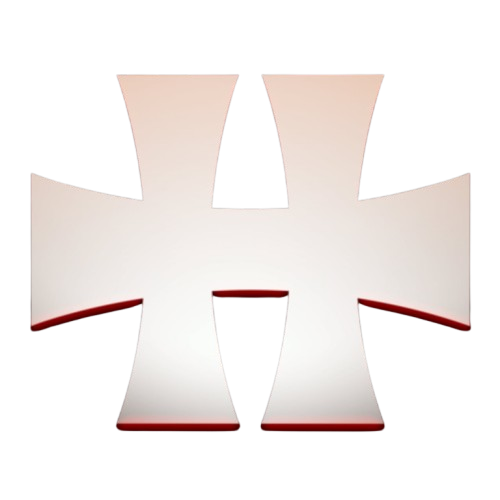
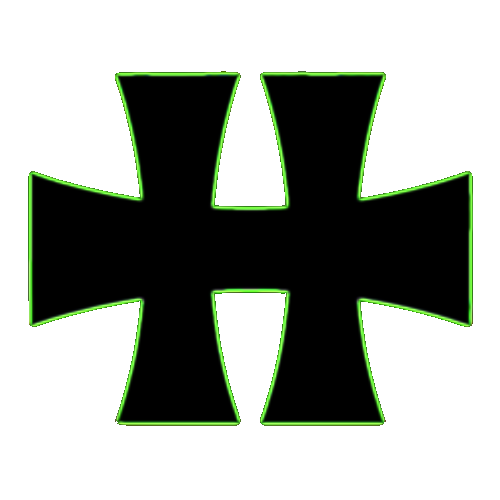
Clean

diff --git a/src/MatrixScreensaver.Wpf/MainWindow.xaml b/src/MatrixScreensaver.Wpf/MainWindow.xaml
@@ -10,18 +10,20 @@
         <Grid x:Name="BackLayersContainer" Panel.ZIndex="0" />
 
         <Border x:Name="BackgroundStage" Panel.ZIndex="2"
-                
                 HorizontalAlignment="Center"
                 VerticalAlignment="Center"
                 Width="Auto"
                 Height="Auto"
                 Margin="120"
-                Background="#06000000"
+                Background="#00000000"
                 BorderBrush="#22000000"
                 BorderThickness="1"
                 CornerRadius="6"
                 IsHitTestVisible="False">
-            <Image x:Name="BackgroundImage" Stretch="Uniform" Opacity="1" />
+            <Grid>
+                <Image x:Name="BackgroundImage" Stretch="Uniform" Opacity="1" />
+                <Rectangle x:Name="ImageTintOverlay" IsHitTestVisible="False" />
+            </Grid>
         </Border>
 
         <Rectangle x:Name="CrtOverlay" Panel.ZIndex="4" IsHitTestVisible="False" Opacity="0.00">
@@ -64,6 +66,8 @@
         </Rectangle>
     </Grid>
 </Window>
+
+
 
 
 

diff --git a/src/MatrixScreensaver.Wpf/MainWindow.xaml.cs b/src/MatrixScreensaver.Wpf/MainWindow.xaml.cs
@@ -36,6 +36,7 @@ public partial class MainWindow : Window
         BackgroundImage.Stretch = Stretch.Uniform;
         BackgroundStage.Opacity = Math.Clamp(options.Background.Opacity + 0.05, 0.0, 1.0);
         BackgroundStage.RenderTransform = Transform.Identity;
+        ConfigureImageTintOverlay(options);
 
         UpdateBackgroundPlaneLayout();
         SizeChanged += (_, _) => UpdateBackgroundPlaneLayout();
@@ -54,6 +55,30 @@ public partial class MainWindow : Window
         };
     }
 
+    private void ConfigureImageTintOverlay(MatrixScreensaverOptions options)
+    {
+        var baseColor = ParseTintColor(options.Matrix.GlyphColor, System.Windows.Media.Color.FromRgb(0, 255, 102));
+        var tintStrength = Math.Clamp(0.015 + options.Background.Opacity * 0.015, 0.015, 0.035);
+        var alpha = (byte)Math.Clamp((int)Math.Round(255.0 * tintStrength), 0, 255);
+        var tintColor = System.Windows.Media.Color.FromArgb(alpha, baseColor.R, baseColor.G, baseColor.B);
+
+        ImageTintOverlay.Fill = new SolidColorBrush(tintColor);
+        ImageTintOverlay.Opacity = 1.0;
+        ImageTintOverlay.Visibility = Visibility.Visible;
+    }
+
+    private static System.Windows.Media.Color ParseTintColor(string input, System.Windows.Media.Color fallback)
+    {
+        try
+        {
+            var converted = System.Windows.Media.ColorConverter.ConvertFromString(input);
+            return converted is System.Windows.Media.Color c ? c : fallback;
+        }
+        catch
+        {
+            return fallback;
+        }
+    }
     private void InitializeDepthLayers()
     {
         _rainLayers.Clear();
@@ -147,11 +172,11 @@ public partial class MainWindow : Window
 
         var backOpacityBoost = isWideLandscape ? 1.40 : (isLandscape ? 1.28 : 1.12);
         var backSpeedBoost = isWideLandscape ? 1.52 : (isLandscape ? 1.36 : 1.14);
-        var backDensityBoost = isWideLandscape ? 1.75 : (isLandscape ? 1.50 : 1.24);
+        var backDensityBoost = isWideLandscape ? 1.75 : (isLandscape ? 1.50 : 1.48);
 
         var frontOpacityBoost = isWideLandscape ? 0.72 : (isLandscape ? 0.78 : 0.88);
         var frontSpeedBoost = isWideLandscape ? 0.92 : (isLandscape ? 0.96 : 1.00);
-        var frontDensityBoost = isWideLandscape ? 0.45 : (isLandscape ? 0.52 : 0.75);
+        var frontDensityBoost = isWideLandscape ? 0.45 : (isLandscape ? 0.52 : 0.68);
 
         var effectiveOpacity = isBackLayer
             ? Math.Clamp(layerConfig.Opacity * backOpacityBoost, 0.62, 1.00)
@@ -217,6 +242,12 @@ public partial class MainWindow : Window
         bitmap.Freeze();
 
         BackgroundImage.Source = bitmap;
+        ImageTintOverlay.OpacityMask = new ImageBrush(bitmap)
+        {
+            Stretch = Stretch.Uniform,
+            AlignmentX = AlignmentX.Center,
+            AlignmentY = AlignmentY.Center
+        };
         UpdateBackgroundPlaneLayout(bitmap);
     }
 
@@ -322,6 +353,11 @@ public partial class MainWindow : Window
             System.Windows.Application.Current.Shutdown();
     }
 }
+
+
+
+
+
 
 
 